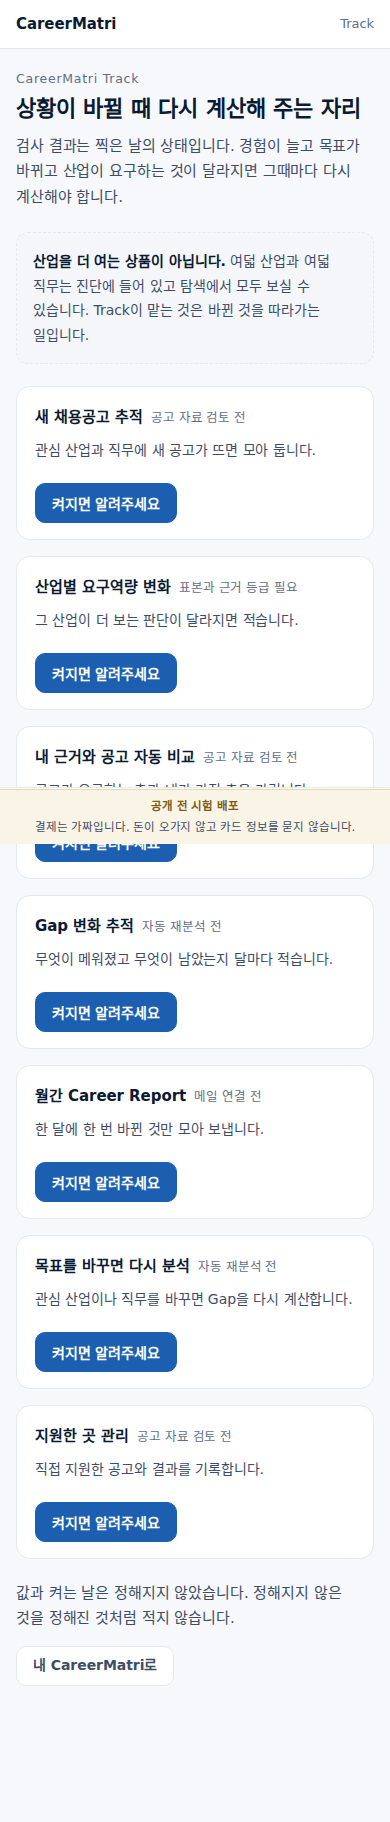
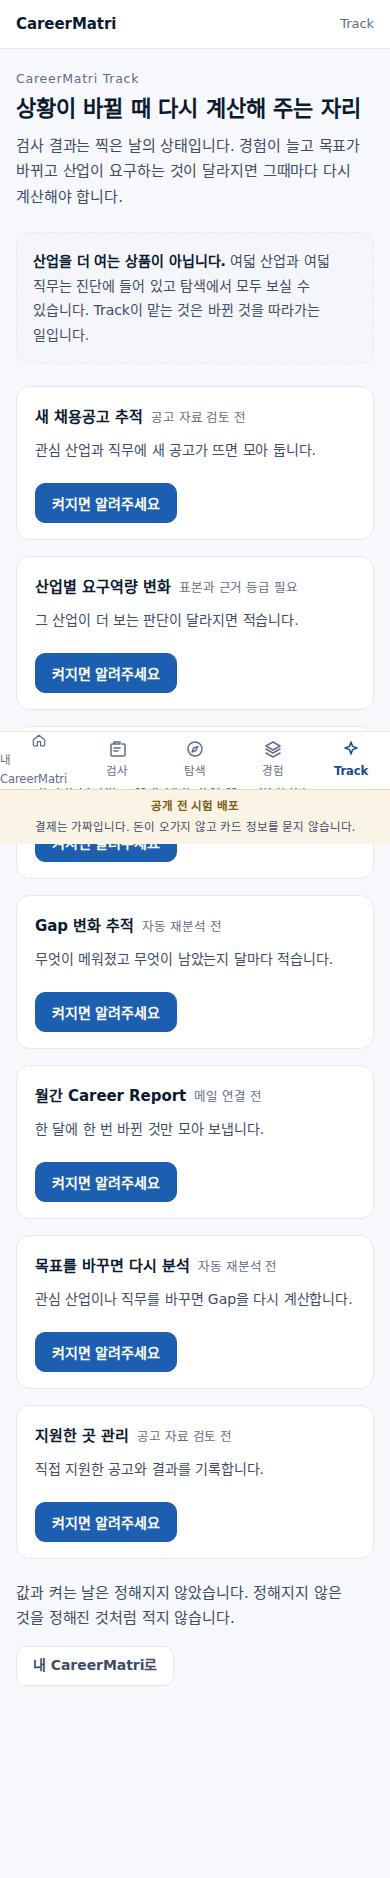
fix(platform): 아래 띠의 첫 칸이 두 줄로 접혔다
`내 CareerMatri` 가 손전화 띠에서 두 줄이 되어 그 칸만 키가 컸다. 다섯
칸이 같은 높이여야 어디를 누르는지가 읽힌다. 띠에는 `홈` 으로 적고 긴
이름은 `aria-label` 이 들고 간다: 화면을 읽어 주는 쪽에는 그 자리가 어디인지
그대로 들린다.

Claude-Session: https://claude.ai/code/session_01VsLgPeSsVvvXWmRdQnrgMy

diff --git a/pca-platform/src/app/me/nav.ts b/pca-platform/src/app/me/nav.ts
@@ -20,6 +20,14 @@ export type CmNavItem = {
   label: string;
   /** 왼쪽 띠에서 한 줄 더 적는다. 손전화 띠에서는 쓰지 않는다 */
   hint?: string;
+  /**
+   * 손전화 아래 띠에 적는 짧은 이름.
+   *
+   * `내 CareerMatri` 가 띠에서 두 줄로 접혀 그 칸만 키가 커졌다. 다섯
+   * 칸이 같은 높이여야 어디를 누르는지가 읽힌다. **긴 이름은 읽는 이름으로
+   * 남긴다**: `aria-label` 이 그것을 들고 간다.
+   */
+  tabLabel?: string;
   icon: IconName;
   /** 손전화 아래 띠에 세우는가 */
   tab?: boolean;
@@ -28,8 +36,8 @@ export type CmNavItem = {
 };
 
 export const CM_NAV: CmNavItem[] = [
-  { href: "/me", label: "내 CareerMatri", hint: "방향 · 근거 · Gap · 다음 행동",
-    icon: "home", tab: true },
+  { href: "/me", label: "내 CareerMatri", tabLabel: "홈",
+    hint: "방향 · 근거 · Gap · 다음 행동", icon: "home", tab: true },
   { href: "/cores", label: "검사", hint: "전공 Core 고르기 · 이어하기",
     icon: "clipboard", tab: true },
   { href: "/me/explore", label: "탐색", hint: "산업 · 직무 · 지역과 기관",

diff --git a/pca-platform/src/app/me/shell.tsx b/pca-platform/src/app/me/shell.tsx
@@ -51,9 +51,10 @@ export function CmShell({
         {CM_TABS.map((it) => (
           <Link key={it.href} href={it.href}
             className={navOn(it.href, active) ? "is-on" : ""}
+            aria-label={it.label}
             aria-current={navOn(it.href, active) ? "page" : undefined}>
             <Icon name={it.icon} />
-            <span>{it.label}</span>
+            <span>{it.tabLabel ?? it.label}</span>
           </Link>
         ))}
       </nav>
